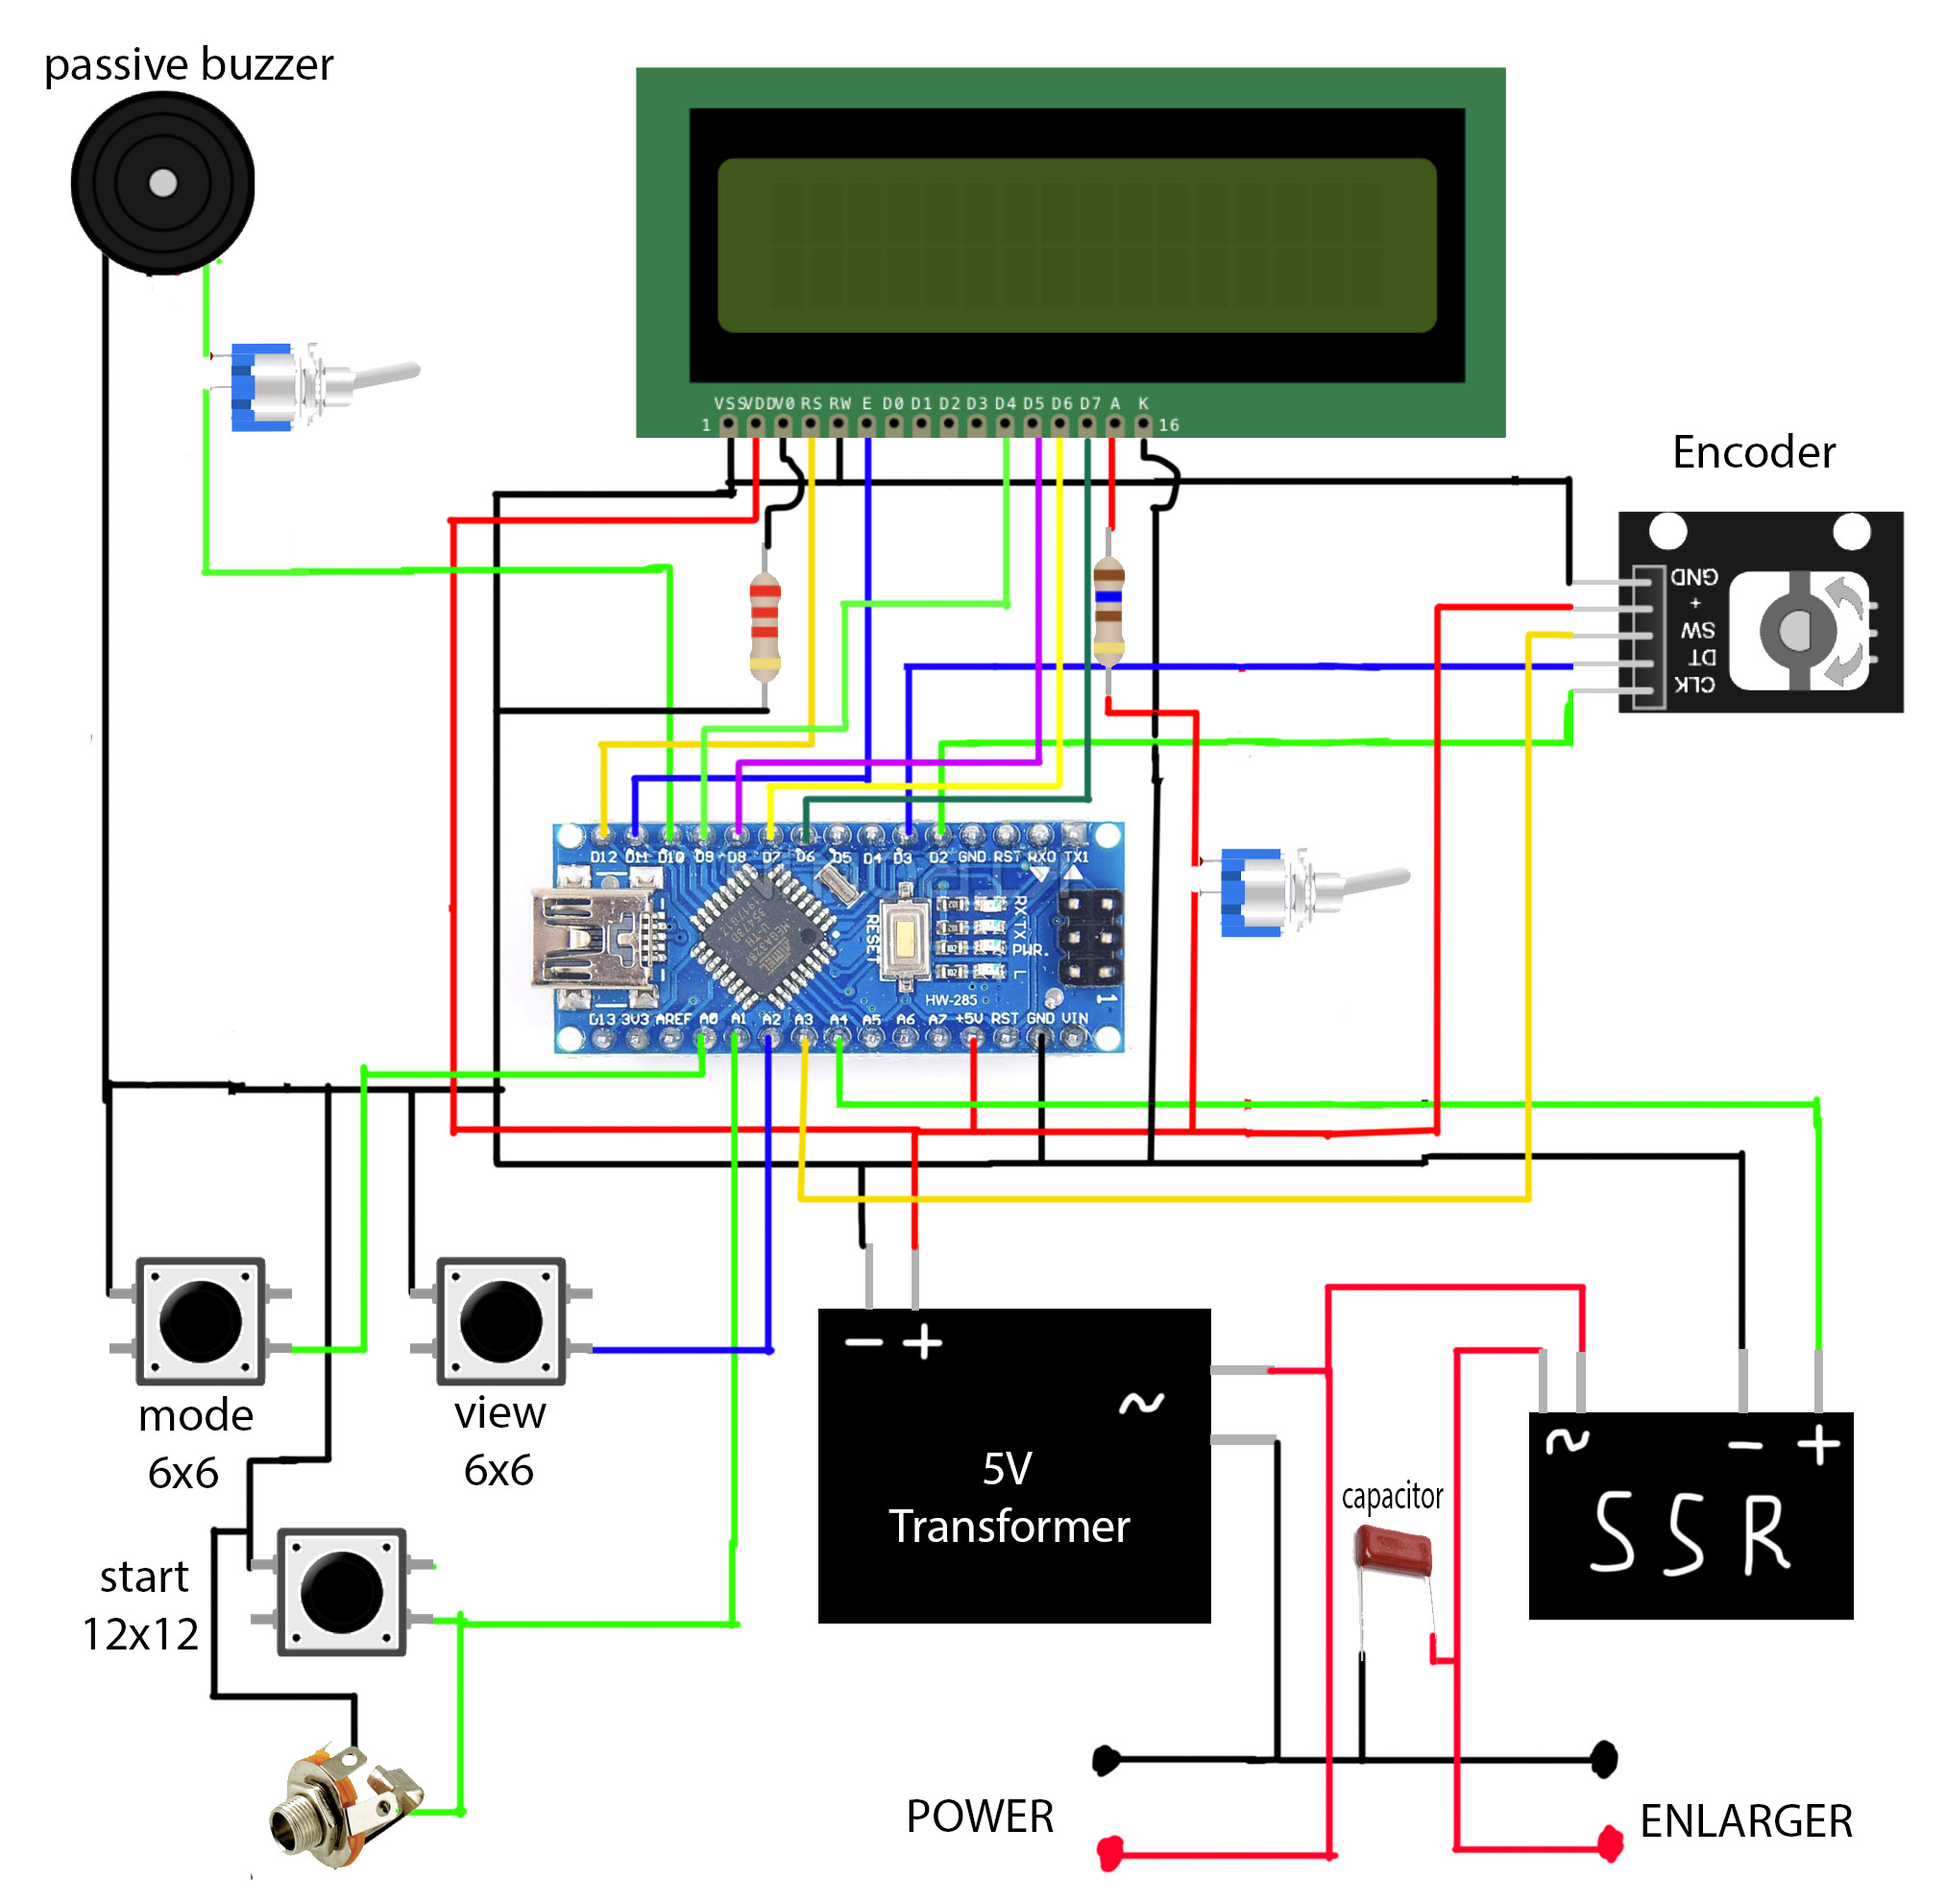
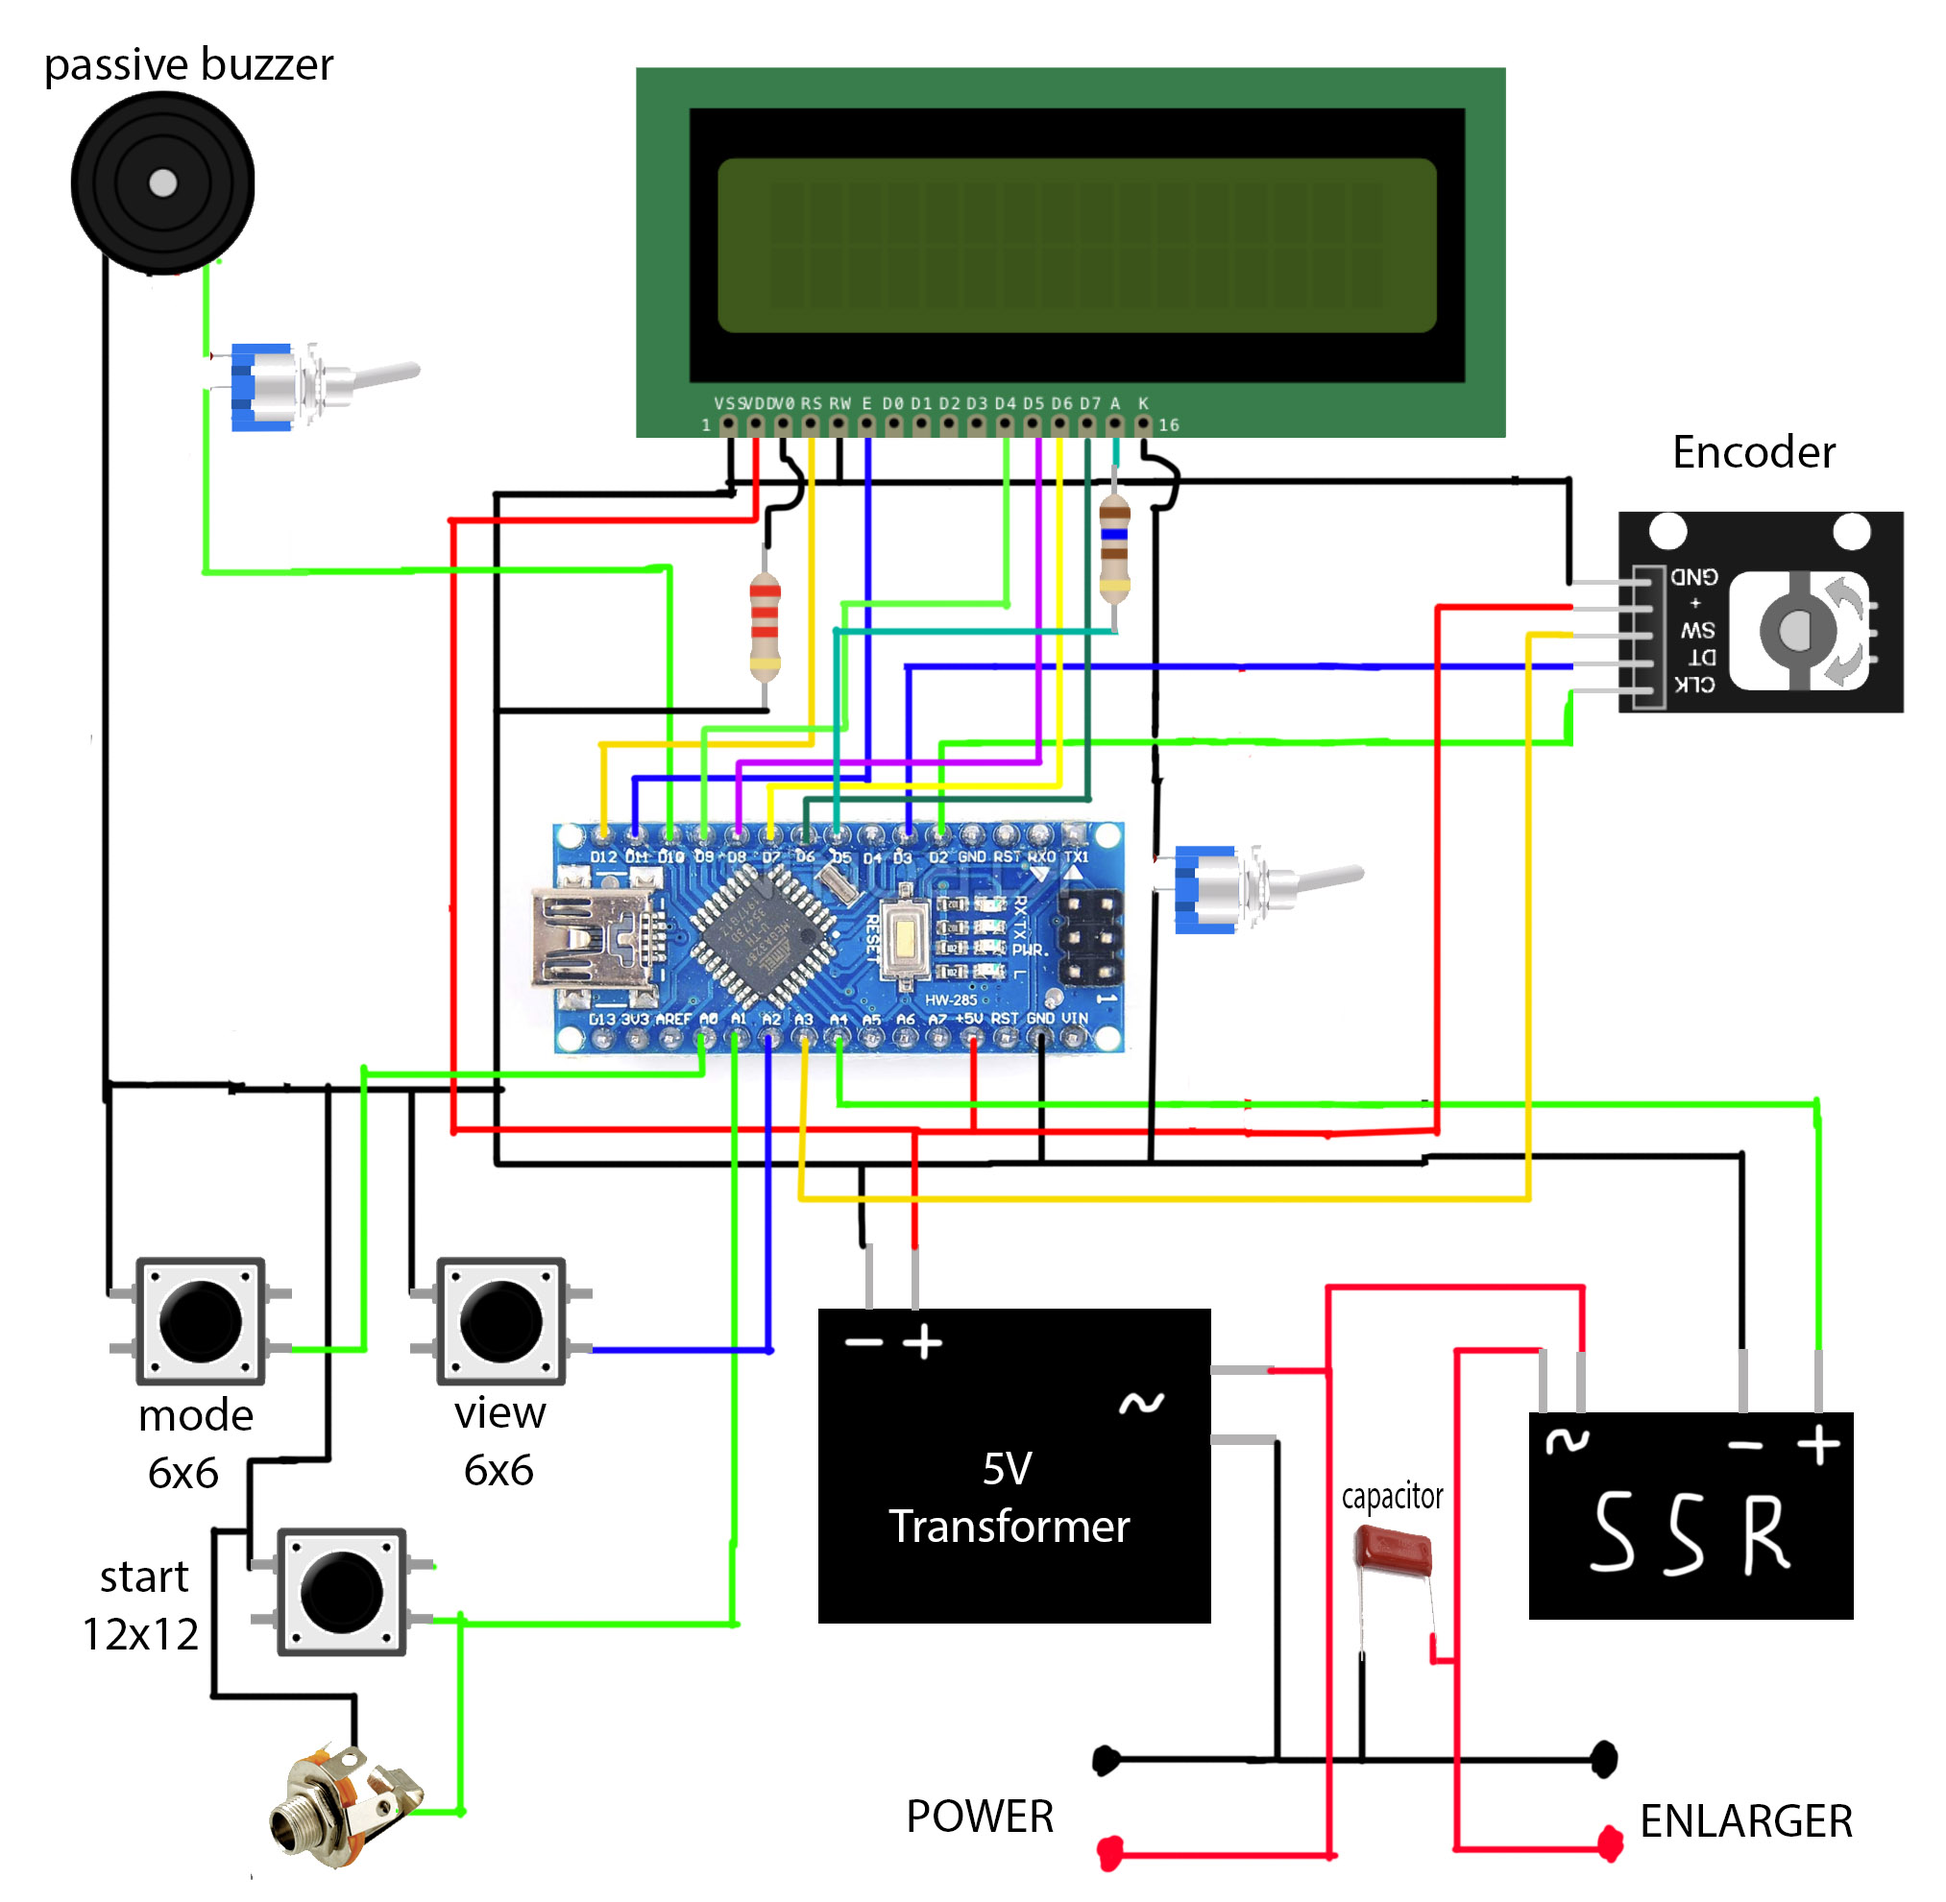
Add ability to control backlight of LED

Changed region(s): [[0.4353, 0.2155, 0.7152, 0.5851], [0.4042, 0.3387, 0.4353, 0.4311]]

diff --git a/SetSettingsMode.cpp b/SetSettingsMode.cpp
@@ -41,11 +41,22 @@ void SetSettingsMode::processSetLagTime() {
 
 void SetSettingsMode::processSetBeepVolume() {
     printFormatedLine("Beep volume", 0);
-    getInt(gSettings.beepVolume, 0, 20);
+    getInt(gSettings.beepVolume, 1, 10);
     char str[3] = "";
     concatInt(str, gSettings.beepVolume);
     printFormatedLine(str, 1);
     analogWrite(BEEPER, gSettings.beepVolume);
+}
+
+void SetSettingsMode::processSetBacklight() {
+    printFormatedLine("Backlight", 0);
+    uint8_t userBacklight = min(gSettings.backlight, 50) / 5;
+    getInt(userBacklight, 1, 10);
+    gSettings.backlight = userBacklight * 5;
+    char str[3] = "";
+    concatInt(str, userBacklight);
+    printFormatedLine(str, 1);
+    analogWrite(BACKLIGHT, gSettings.backlight);
 }
 
 void SetSettingsMode::process() {
@@ -61,6 +72,9 @@ void SetSettingsMode::process() {
     switch (m_step) {
     case Step::setLagTime:
         processSetLagTime();
+        break;
+    case Step::setBacklight:
+        processSetBacklight();
         break;
     case Step::setBeepVolume:
         processSetBeepVolume();

diff --git a/Settings.cpp b/Settings.cpp
@@ -16,13 +16,15 @@ Settings::Settings() {
     GET_SETTING(checkInitFlag);
     if (checkInitFlag != kSettingsWasInitedFlag) {
         lagTime = 0;
-        beepVolume = 10;
+        beepVolume = 6;
+        backlight = 25 * 5;
         updateEEPROM();
         return;
     }
 
     GET_SETTING(lagTime);
     GET_SETTING(beepVolume);
+    GET_SETTING(backlight);
 }
 
 void Settings::updateEEPROM() {
@@ -34,4 +36,5 @@ void Settings::updateEEPROM() {
     PUT_SETTING(kSettingsWasInitedFlag);
     PUT_SETTING(lagTime);
     PUT_SETTING(beepVolume);
+    PUT_SETTING(backlight);
 }

diff --git a/SetSettingsMode.h b/SetSettingsMode.h
@@ -4,7 +4,7 @@
 
 class SetSettingsMode final : public ModeProcessor {
 public:
-    enum class Step { setLagTime, setBeepVolume, last_ };
+    enum class Step { setLagTime, setBacklight, setBeepVolume, last_ };
 
     SetSettingsMode();
     ~SetSettingsMode();
@@ -14,6 +14,7 @@ public:
 
 private:
     void processSetLagTime();
+    void processSetBacklight();
     void processSetBeepVolume();
 
     Step m_step;

diff --git a/Tools.h b/Tools.h
@@ -27,6 +27,7 @@
 #define ENCODER_CLK 3
 
 #define BEEPER 10
+#define BACKLIGHT 5
 #define RELAY A4
 
 void getFormatedTime(uint32_t ms, char* buf, bool accurate = true);

diff --git a/Settings.h b/Settings.h
@@ -8,4 +8,5 @@ struct Settings {
 
     uint16_t lagTime;
     uint8_t beepVolume;
+    uint8_t backlight;
 };

diff --git a/README_RU.md b/README_RU.md
@@ -9,7 +9,7 @@
 3. Кликни кнопку на энкодере, чтобы перемещаться внутри самого режима
 4. Удерживай кнопку на энкодере, чтобы сбросить печать в любом режиме
 5. Кликни кнопку старта, чтобы начать печать в любом режиме
-6. Удерживай нопку просмотра и переключения режима, чтобы войти в режим настроек (можно устанавливать лаг запуска лампыи громкость пищалки)
+6. Удерживай нопку просмотра и переключения режима, чтобы войти в режим настроек (можно устанавливать лаг запуска лампы, подсветку и громкость пищалки)
 7. Перемещение внури режимов настройки происходит по нажатию на кнопку переключения режимов
 8. Чтобы сохранить настройки, снова ужерживай кнопку просмотра и переключения режимов
 

diff --git a/README.md b/README.md
@@ -11,7 +11,7 @@
 3. Click extra btn to navigate inside modes
 4. Hold extra btn to reset current printing at any mode
 5. Click start btn to start printing at any mode
-6. Hold view btn and change mode btn to go in set settings mode (set lag time and beep volume)
+6. Hold view btn and change mode btn to go in set settings mode (set lag time, LED Backlight and beep volume)
 
 ## Modes
 
